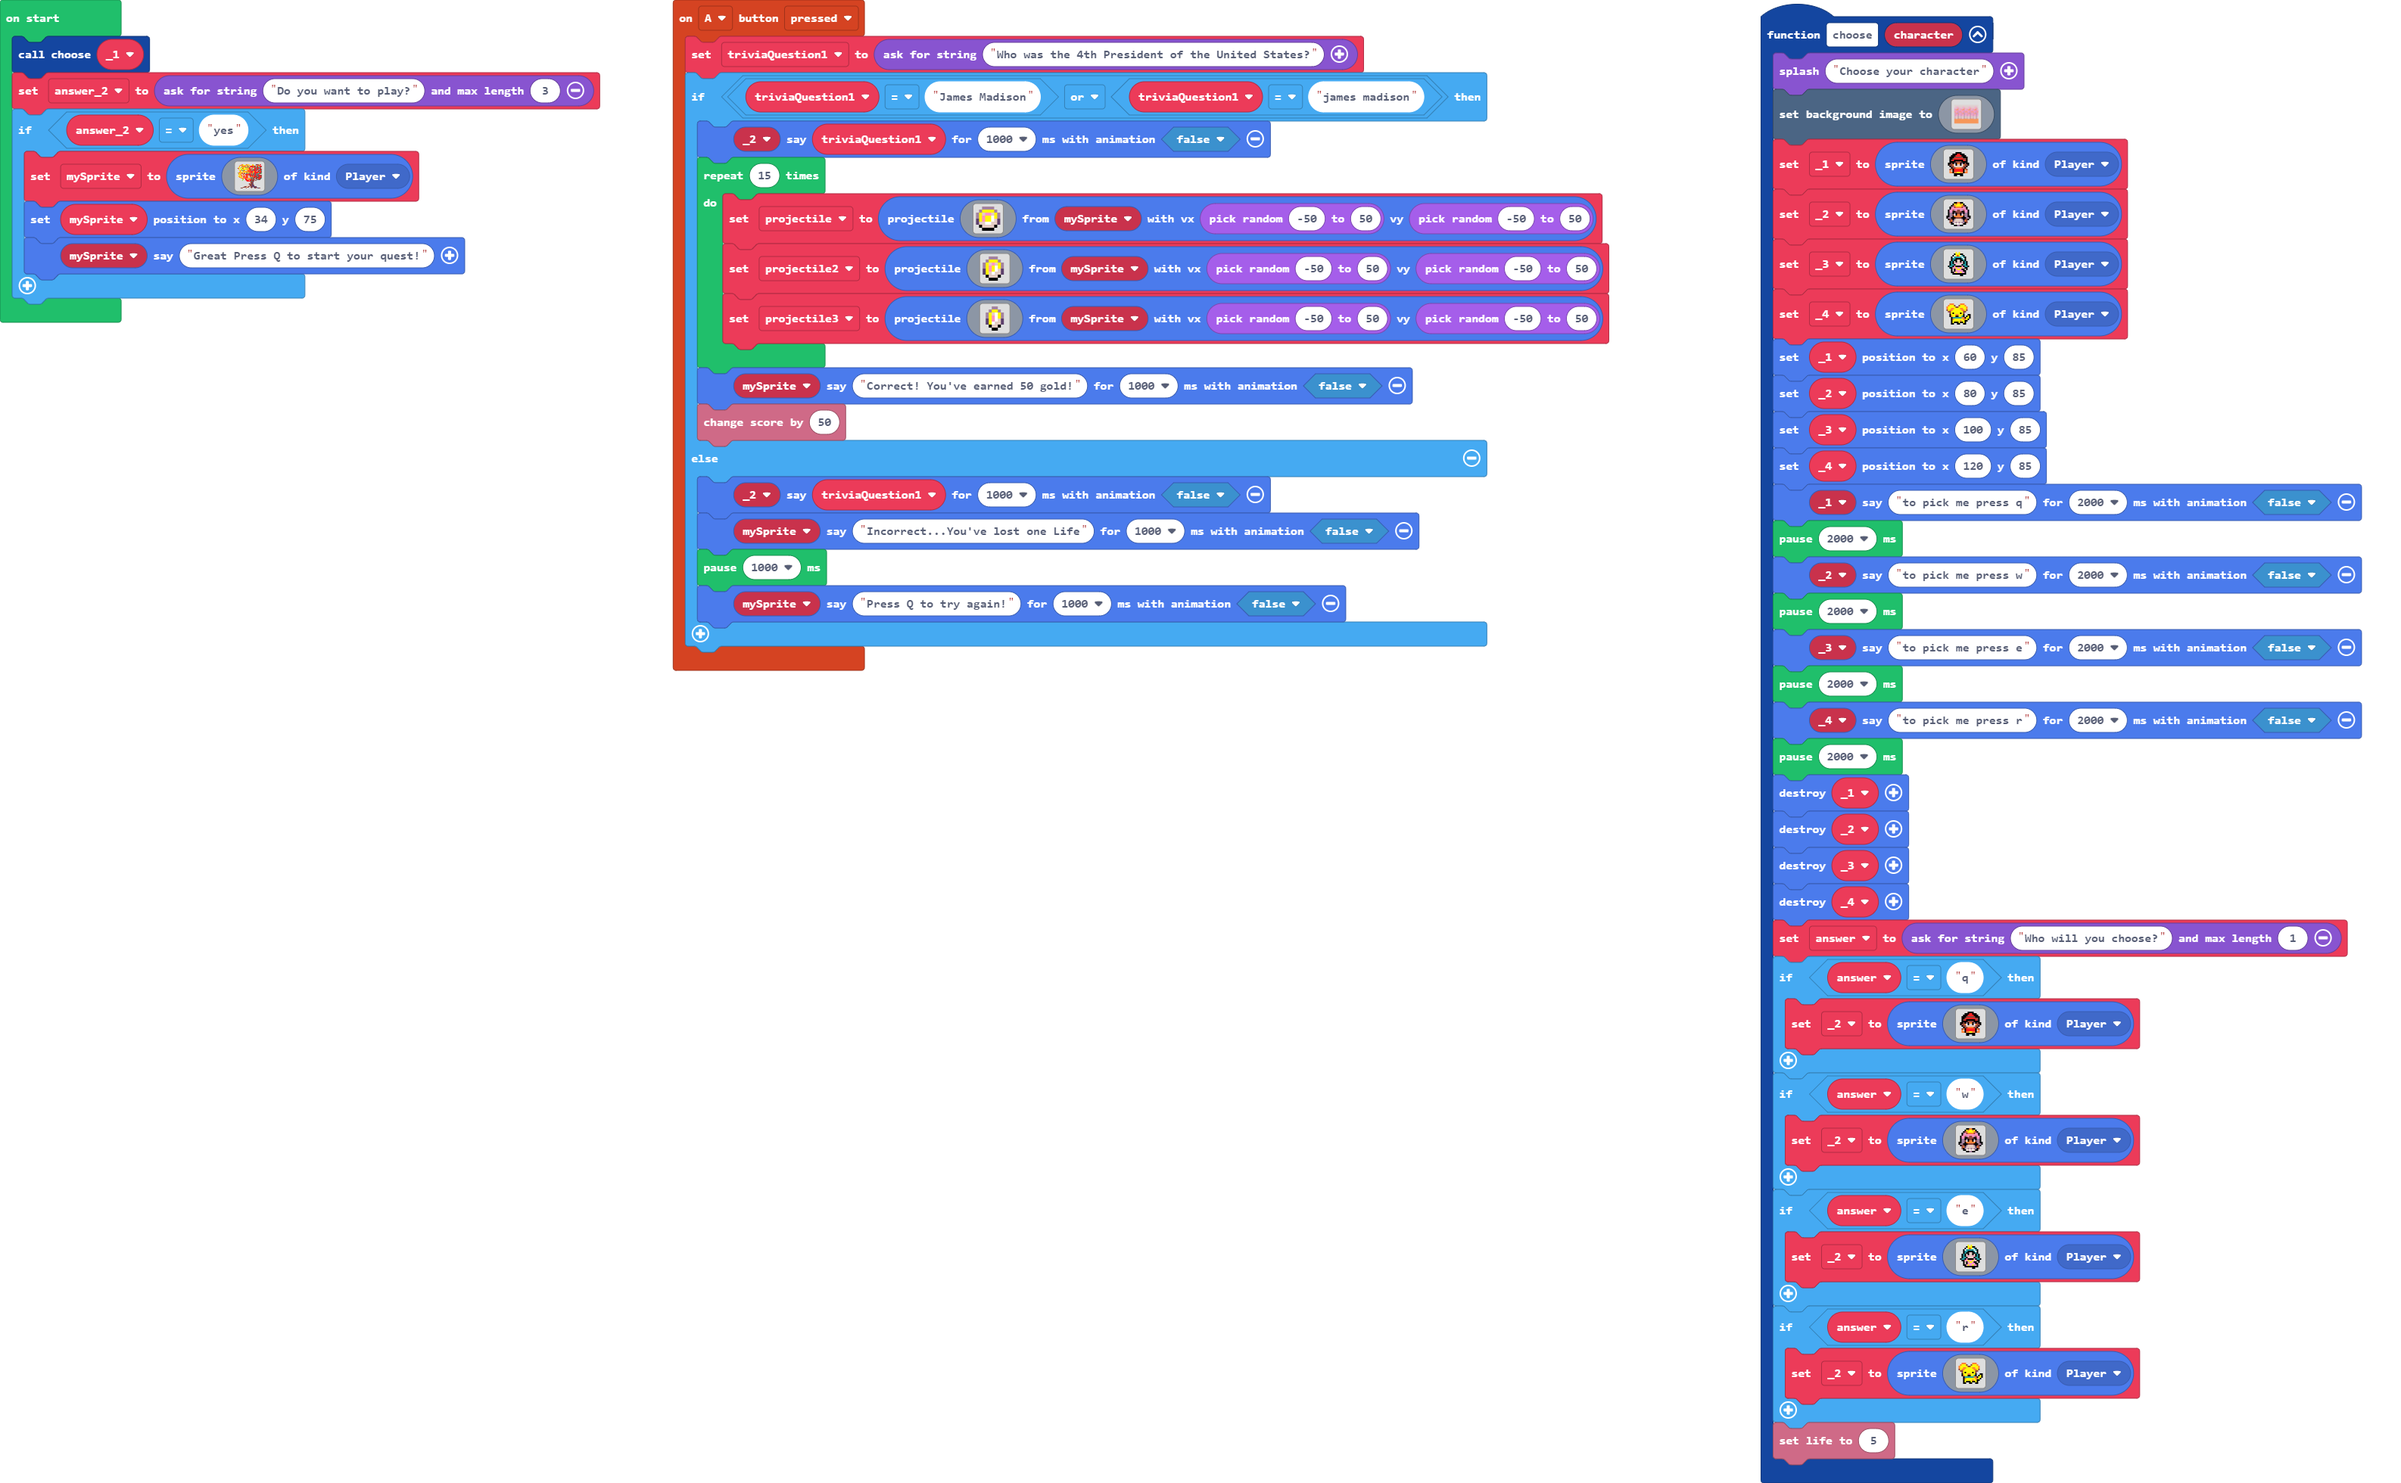
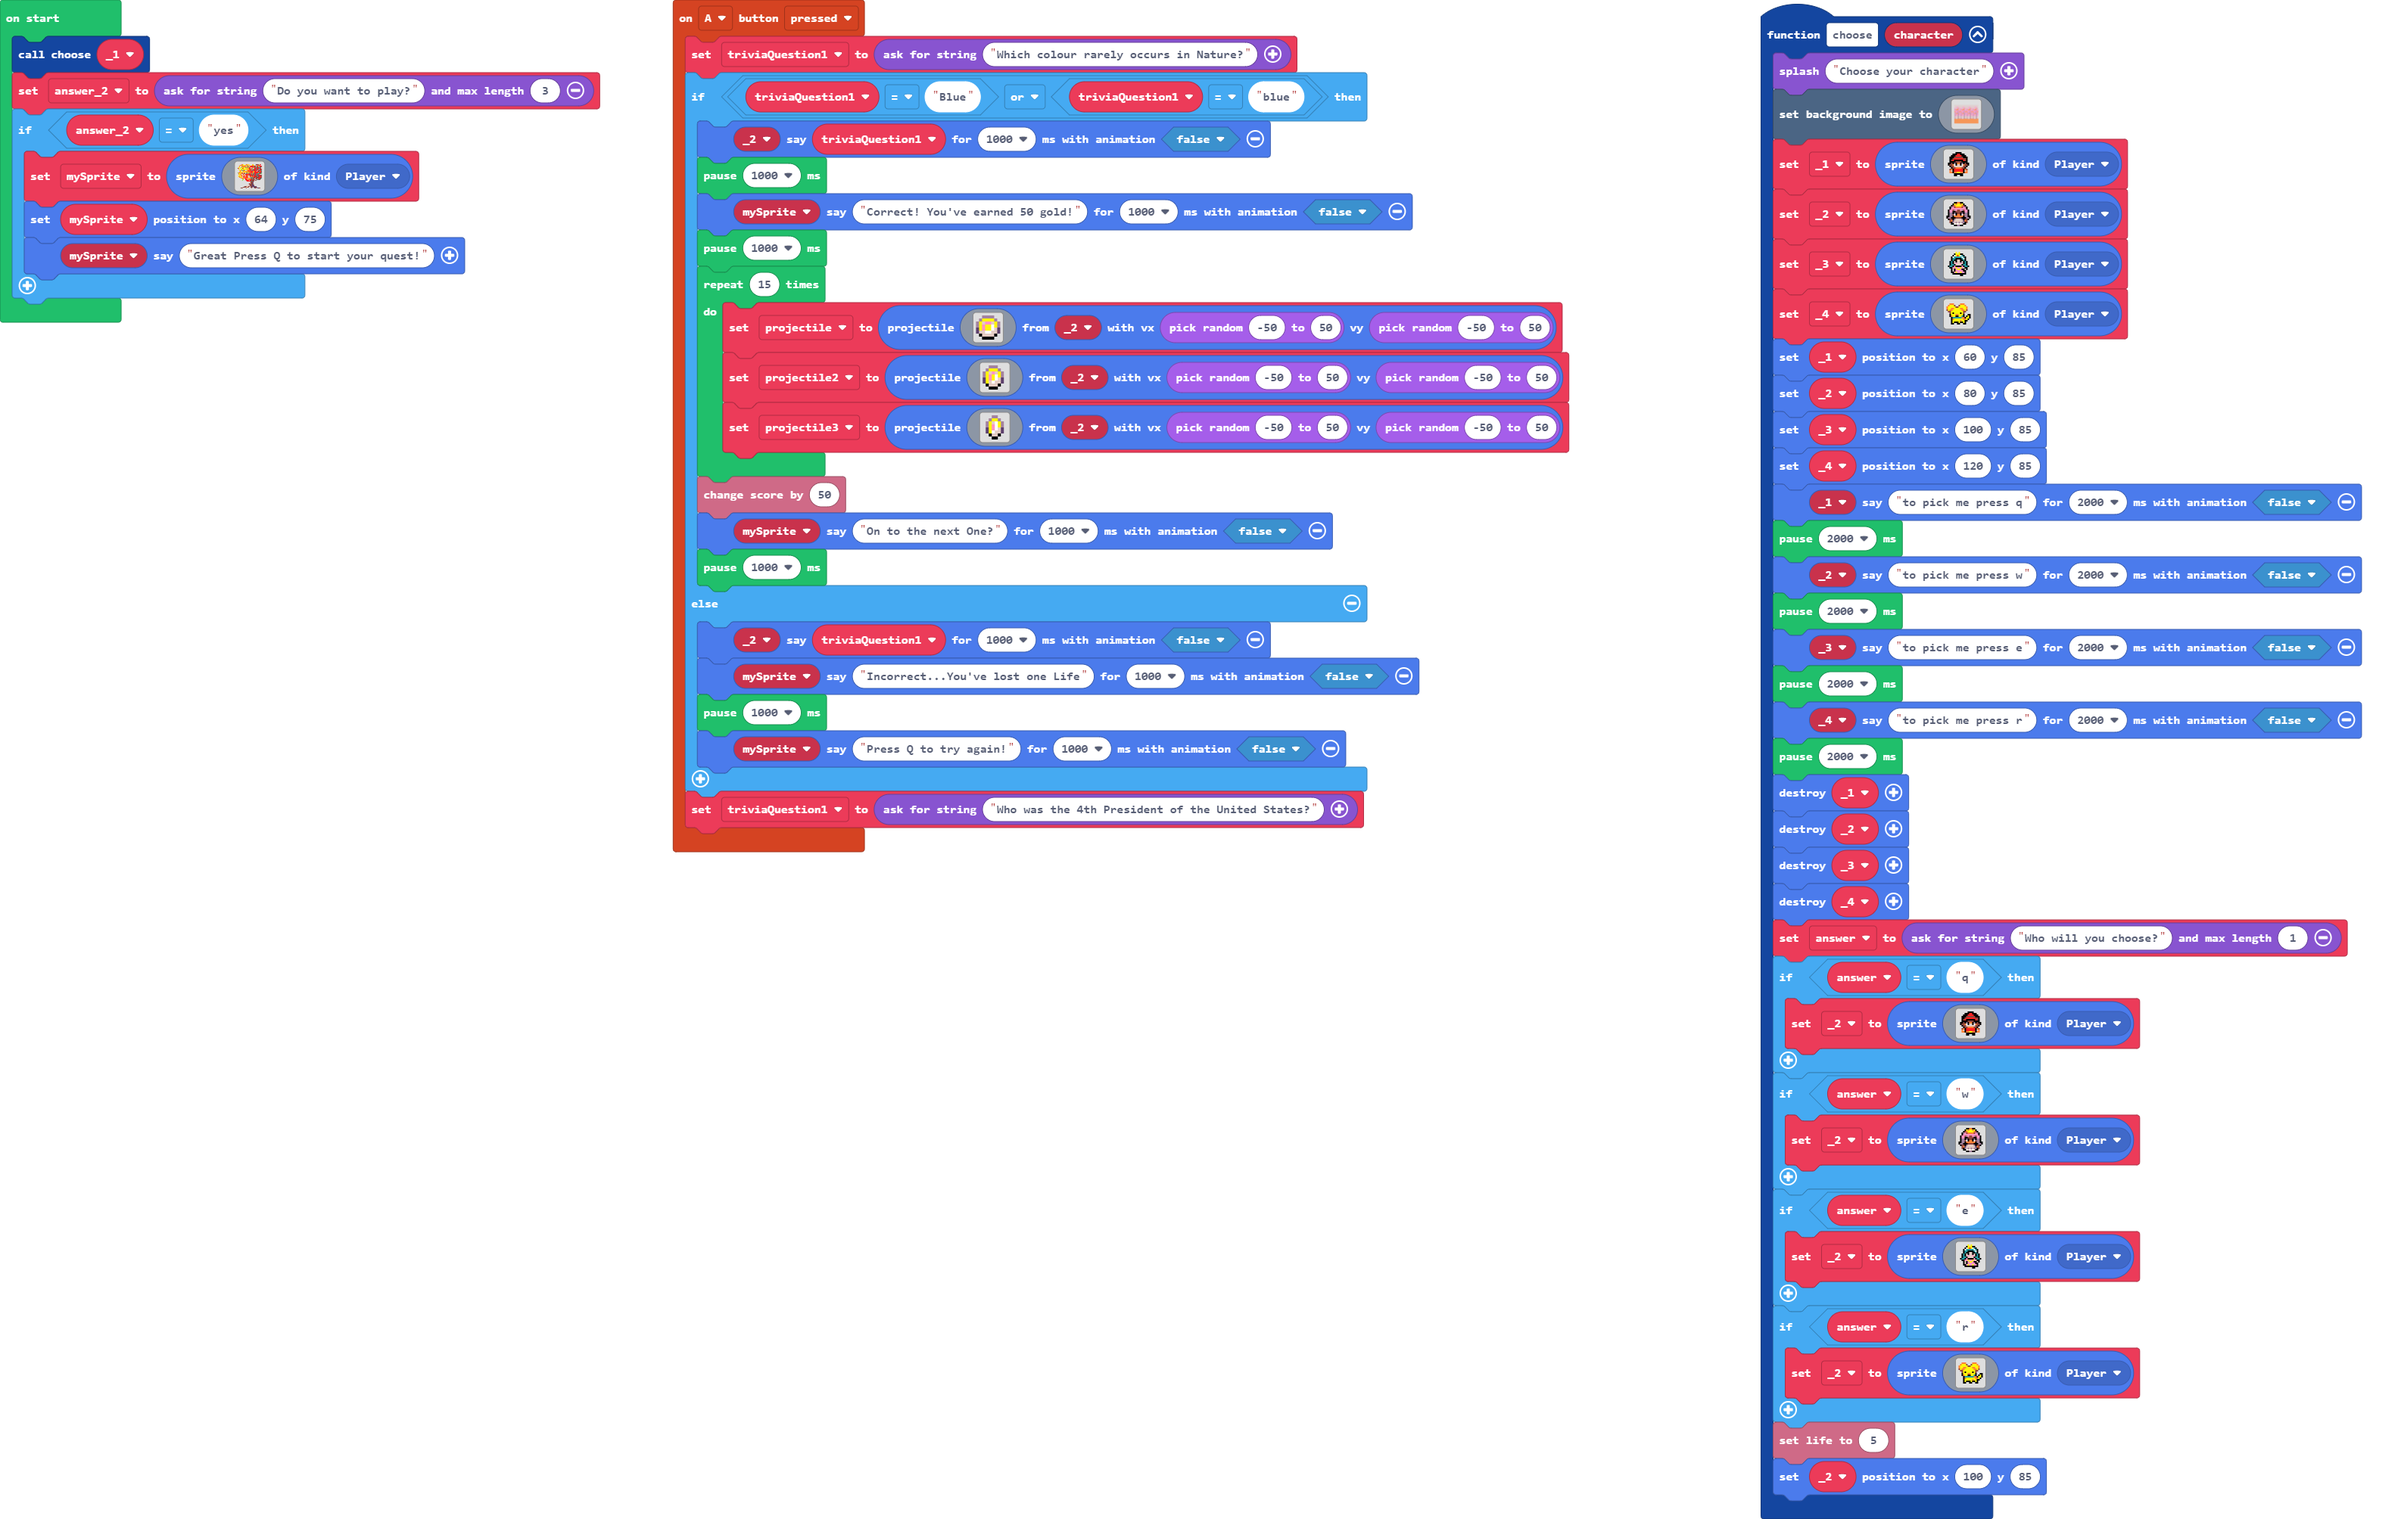
Update main.blocks, main.ts

Changed region(s): [[0.2809, 0.0, 0.6866, 0.5602], [0.7178, 0.0, 0.9987, 0.9959], [0.0, 0.0311, 0.2497, 0.2179]]

diff --git a/main.ts b/main.ts
@@ -288,11 +288,15 @@ function choose (character: Sprite) {
             `, SpriteKind.Player)
     }
     info.setLife(5)
+    _2.setPosition(100, 85)
 }
 controller.A.onEvent(ControllerButtonEvent.Pressed, function () {
-    triviaQuestion1 = game.askForString("Who was the 4th President of the United States?")
-    if (triviaQuestion1 == "James Madison" || triviaQuestion1 == "james madison") {
+    triviaQuestion1 = game.askForString("Which colour rarely occurs in Nature?")
+    if (triviaQuestion1 == "Blue" || triviaQuestion1 == "blue") {
         _2.sayText(triviaQuestion1, 1000, false)
+        pause(1000)
+        mySprite.sayText("Correct! You've earned 50 gold!", 1000, false)
+        pause(1000)
         for (let index = 0; index < 15; index++) {
             projectile = sprites.createProjectileFromSprite(img`
                 . . b b b b . . 
@@ -303,7 +307,7 @@ controller.A.onEvent(ControllerButtonEvent.Pressed, function () {
                 c d d 1 1 d d c 
                 . f d d d d f . 
                 . . f f f f . . 
-                `, mySprite, randint(-50, 50), randint(-50, 50))
+                `, _2, randint(-50, 50), randint(-50, 50))
             projectile2 = sprites.createProjectileFromSprite(img`
                 . . b b b . . . 
                 . b 5 5 5 b . . 
@@ -313,7 +317,7 @@ controller.A.onEvent(ControllerButtonEvent.Pressed, function () {
                 c 5 d 1 d d c . 
                 . f d d d f . . 
                 . . f f f . . . 
-                `, mySprite, randint(-50, 50), randint(-50, 50))
+                `, _2, randint(-50, 50), randint(-50, 50))
             projectile3 = sprites.createProjectileFromSprite(img`
                 . . . b b . . . 
                 . . b 5 5 b . . 
@@ -323,16 +327,18 @@ controller.A.onEvent(ControllerButtonEvent.Pressed, function () {
                 . c 5 1 d d c . 
                 . . f d d f . . 
                 . . . f f . . . 
-                `, mySprite, randint(-50, 50), randint(-50, 50))
+                `, _2, randint(-50, 50), randint(-50, 50))
         }
-        mySprite.sayText("Correct! You've earned 50 gold!", 1000, false)
         info.changeScoreBy(50)
+        mySprite.sayText("On to the next One?", 1000, false)
+        pause(1000)
     } else {
         _2.sayText(triviaQuestion1, 1000, false)
         mySprite.sayText("Incorrect...You've lost one Life", 1000, false)
         pause(1000)
         mySprite.sayText("Press Q to try again!", 1000, false)
     }
+    triviaQuestion1 = game.askForString("Who was the 4th President of the United States?")
 })
 let projectile3: Sprite = null
 let projectile2: Sprite = null
@@ -381,6 +387,6 @@ if (answer_2 == "yes") {
         .......eeee.4ee..ece.cccec......
         ....eee....e......e...eee.ccee..
         `, SpriteKind.Player)
-    mySprite.setPosition(34, 75)
+    mySprite.setPosition(64, 75)
     mySprite.sayText("Great Press Q to start your quest!")
 }
